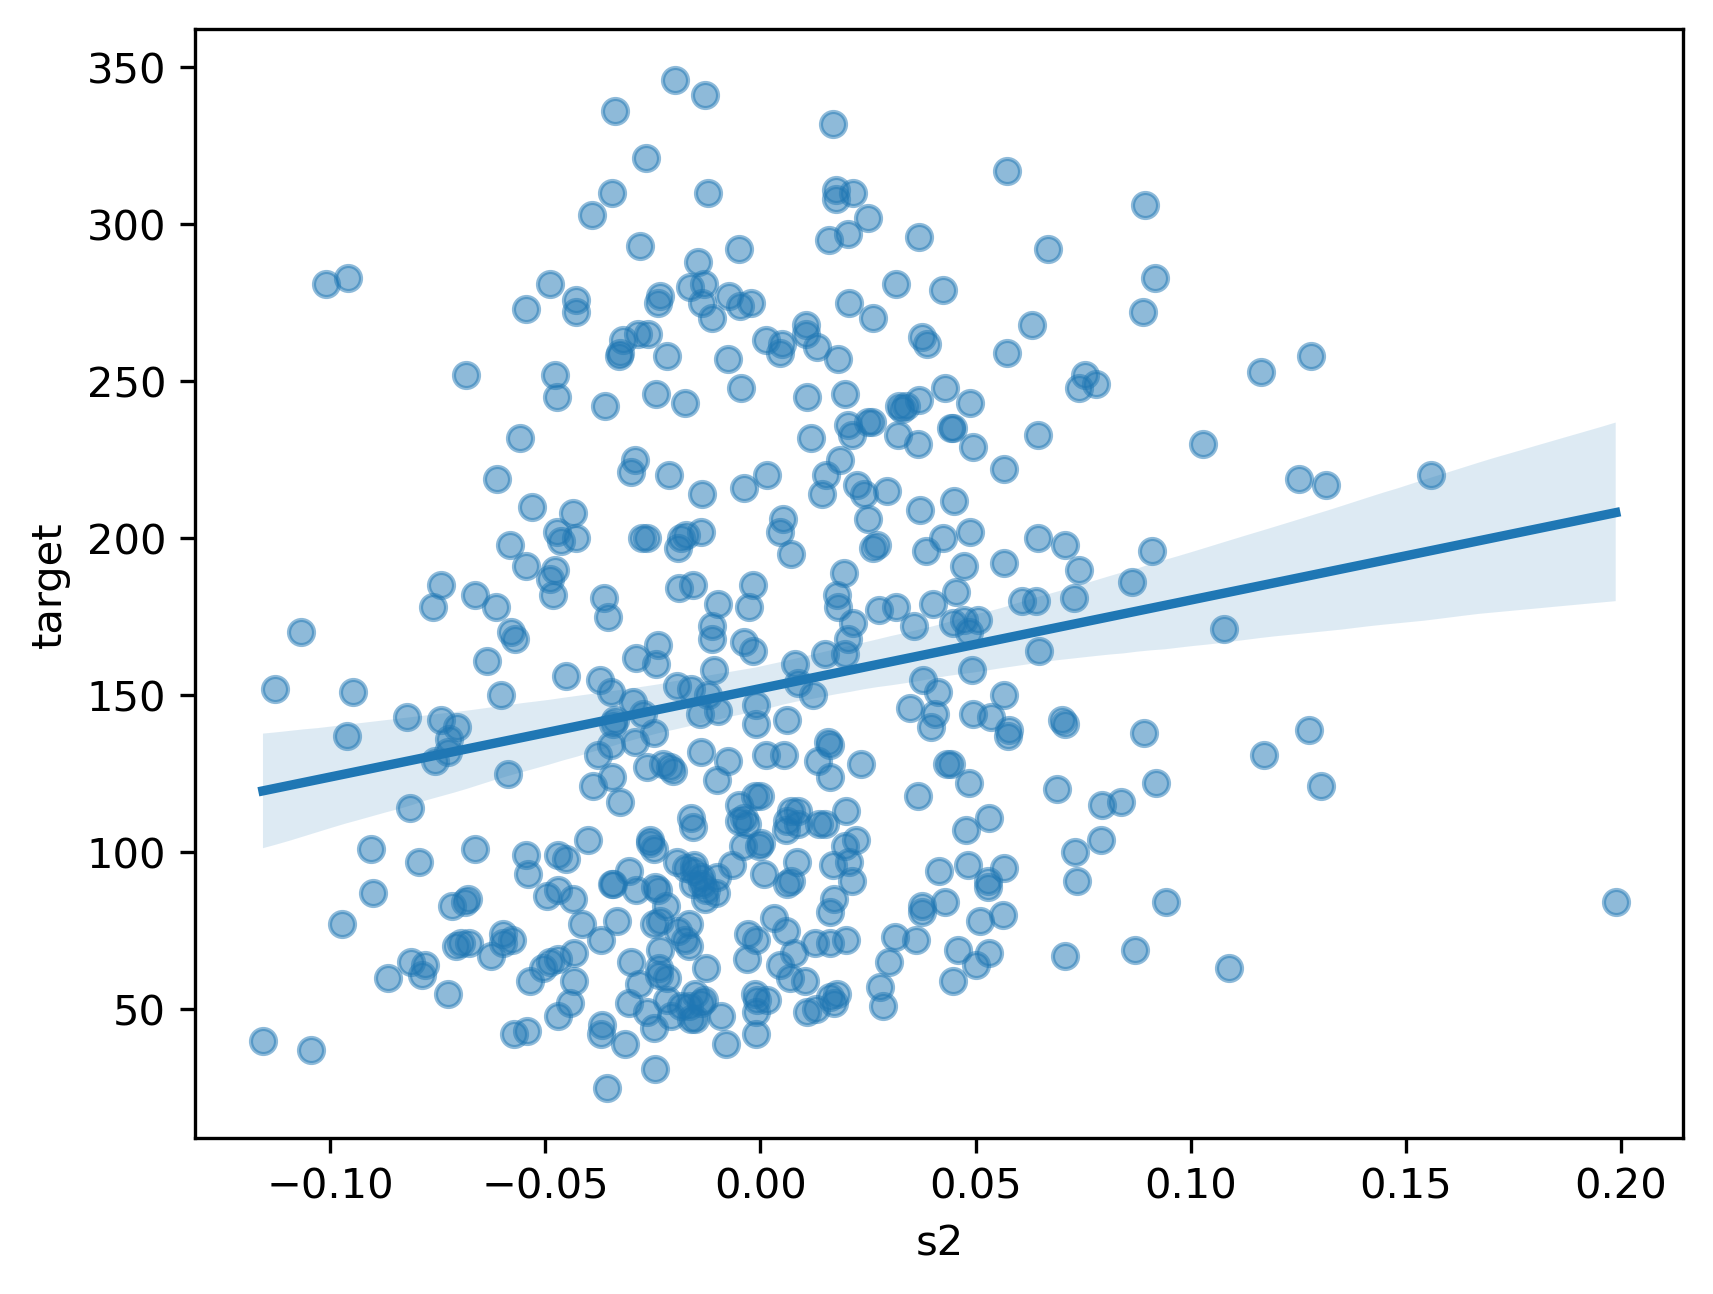
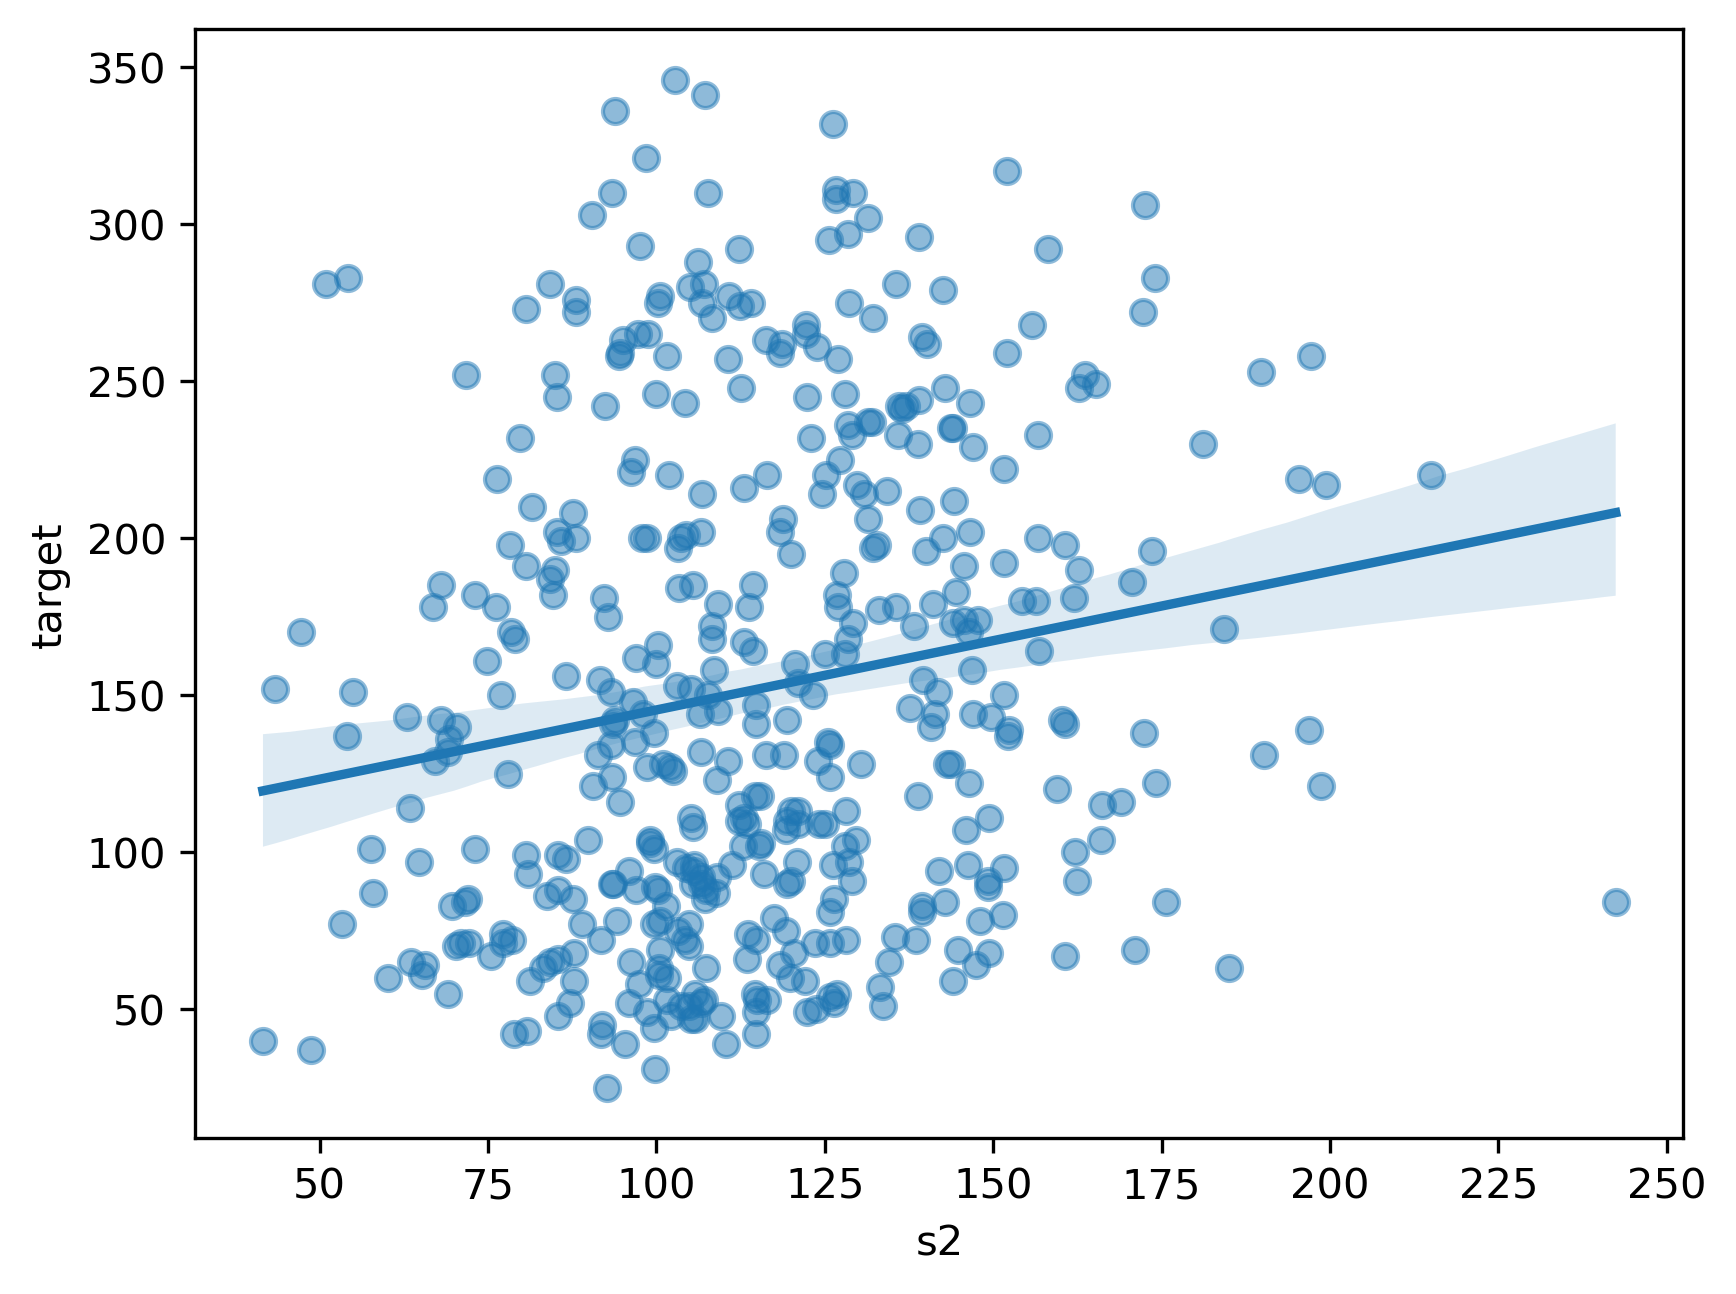
More plots

diff --git a/python/feature_target_correlations/feature_target_correlations.py b/python/feature_target_correlations/feature_target_correlations.py
@@ -7,6 +7,7 @@ import random
 from sklearn.preprocessing import StandardScaler
 import seaborn as sns
 import numpy as np
+from sklearn.metrics import r2_score
 from sklearn.datasets import load_diabetes
 from pathlib import Path
 pd.set_option('display.max_rows', None)
@@ -17,7 +18,7 @@ pd.set_option('display.colheader_justify', 'center')
 
 def get_data(path: str = None, features: list = None, target: str = None):
     if path is None:
-        data_bunch = load_diabetes(as_frame=True, scaled=True)
+        data_bunch = load_diabetes(as_frame=True, scaled=False)
         df = data_bunch.frame
         features = data_bunch.feature_names
         target = data_bunch.target.name
@@ -80,6 +81,14 @@ def get_df_with_all_correlations_of_features_with_target(df, features, target):
     perm_importances = perm_importances.rename('Permutation')
     corr_types['Permutation'] = nonlin
 
+    # %% ==============    Non-linear feature importances with r2    ==================
+    r2 = []
+    for feature in features:
+        r2.append(r2_score(df[target], df[feature]))
+    r2 = pd.Series(r2, index=features)
+    r2 = r2.rename('r2')
+    corr_types['r2'] = nonlin
+
     # %% ==============    Linear feature importances with PCA    ==================
     from sklearn.decomposition import PCA
     pca = PCA(n_components=1)
@@ -108,23 +117,23 @@ def get_df_with_all_correlations_of_features_with_target(df, features, target):
     corr_types['Lin. Reg.'] = lin
 
     # %% ==============    Non-linear feature importances with XGBoost    ==================
-    import xgboost as xgb
-    xgb_model = xgb.XGBRegressor(objective="reg:squarederror", random_state=0)
-    xgb_model.fit(df[features], df[target])
-    xgb_importances = xgb_model.feature_importances_
-    xgb_importances = pd.Series(xgb_importances, index=features)
-    xgb_importances = xgb_importances.rename('XGBoost')
-    corr_types['XGBoost'] = nonlin
+    # import xgboost as xgb
+    # xgb_model = xgb.XGBRegressor(objective="reg:squarederror", random_state=0)
+    # xgb_model.fit(df[features], df[target])
+    # xgb_importances = xgb_model.feature_importances_
+    # xgb_importances = pd.Series(xgb_importances, index=features)
+    # xgb_importances = xgb_importances.rename('XGBoost')
+    # corr_types['XGBoost'] = nonlin
 
     # %% ==============    Combine and save all feature importances    ==================
     df_importances = pd.concat(
-        [RF_importances, perm_importances, xgb_importances, Lasso_importances, linreg_importances, PCA_importances,
+        [RF_importances, perm_importances, r2, Lasso_importances, linreg_importances, PCA_importances,
          correlations], axis=1)
     # Sort dataframe columns by linear, non-linear, and monotonic correlations and add this as a multiindex
     df_importances.columns = pd.MultiIndex.from_tuples([(corr_types[col], col) for col in df_importances.columns])
     df_importances = df_importances.sort_index(axis=1, level=0, ascending=False)
     # Sort dataframe by XGBoost feature importances
-    df_importances = df_importances.sort_values(by=('nonlinear', 'XGBoost'), ascending=False)
+    df_importances = df_importances.sort_values(by=('nonlinear', 'Random Forest'), ascending=False)
 
     return df_importances
 
@@ -163,6 +172,31 @@ if __name__ == '__main__':
         plt.show()
         plt.close()
     print(f'- Correlation plot of each feature & target saved to "{plotdir}".')
+
+
+    # Plot four different correlation types
+    x = np.linspace(-1, 1, 50)
+    functions = {
+                    'linear': lambda x: 1*x,
+                    'nonlinear': lambda x: x**2,
+                    'monotonic': lambda x: x**3,
+                    'negative linear': lambda x: -1*x,
+                 }
+    sns.set_style('darkgrid')
+    for corr_type, func in functions.items():
+        plt.figure()
+        y = func(x) #+ np.random.normal(0, 0.03, len(x))
+        corr_spearman = pd.DataFrame([x, y], index=['x', 'y']).T.corr(method='spearman').loc['x', 'y']
+        corr_pearson = pd.DataFrame([x, y], index=['x', 'y']).T.corr(method='pearson').loc['x', 'y']
+        r2 = r2_score(y, func(x))
+        label = f'Corr. (Spearman) = {corr_spearman:.2f}\nCorr. (Pearson) = {corr_pearson:.2f}\nR2 = {r2:.2f}'
+        sns.scatterplot(x=x, y=y, alpha=0.6, label=label)
+        # plt.legend()
+        plt.xlabel('x')
+        plt.ylabel('y')
+        plt.title(corr_type)
+        plt.savefig(f'{output_dir}/{corr_type}.png', dpi=300, bbox_inches='tight')
+
 
     print('Done!')
 
